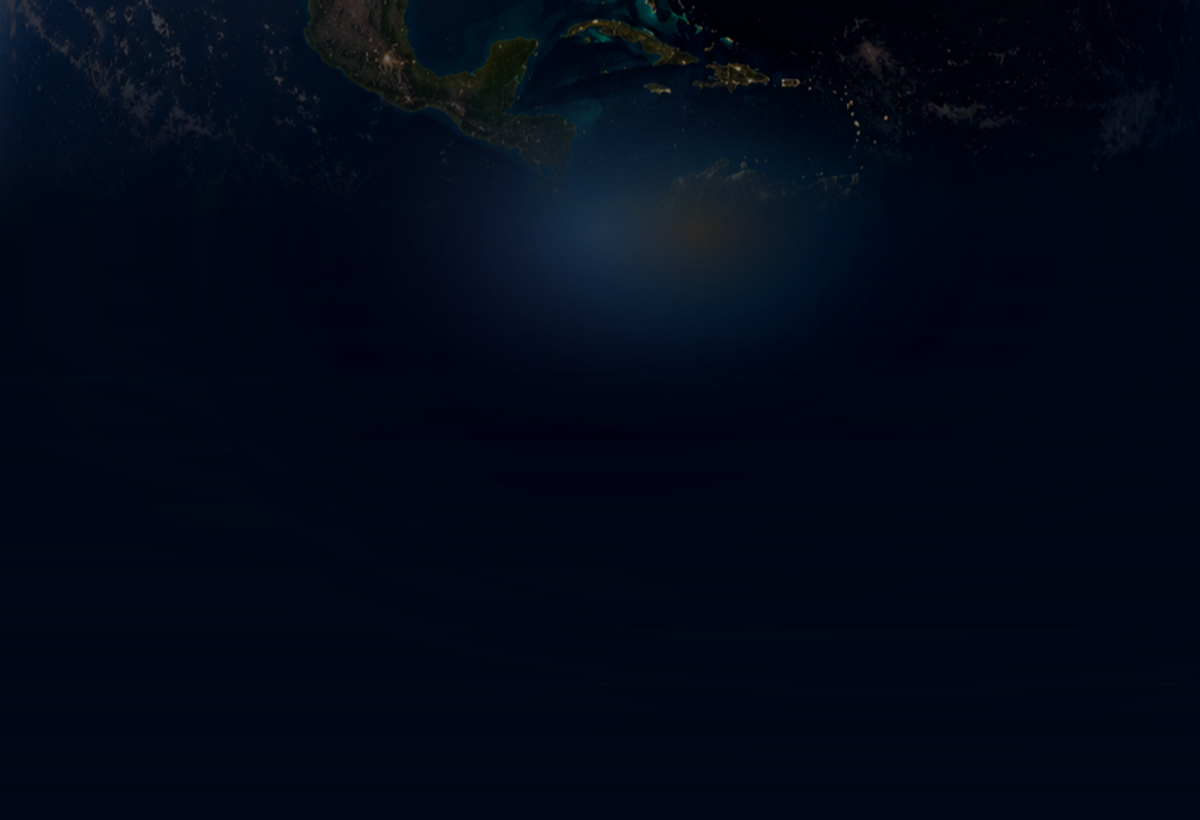
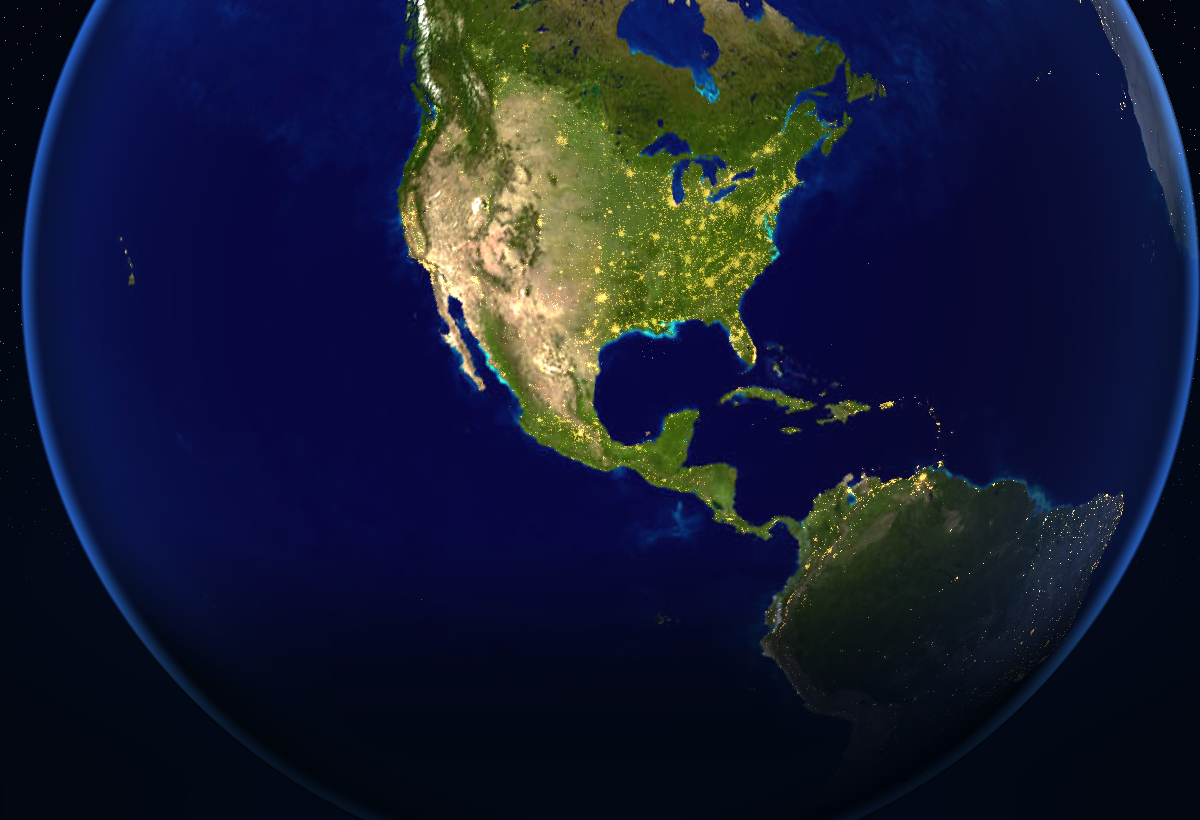
Refine mobile home globe hero

diff --git a/components/dashboard/photorealistic-3d-home-hero.tsx b/components/dashboard/photorealistic-3d-home-hero.tsx
@@ -43,8 +43,8 @@ const DEFAULT_COUNTRY: CountryFocus = {
   lat: 39.8283,
   lng: -98.5795,
   name: "United States",
-  pinX: 58,
-  pinY: 29
+  pinX: 56,
+  pinY: 39
 };
 
 const COUNTRY_BY_CODE: Record<string, CountryFocus> = {
@@ -246,12 +246,12 @@ export function Photorealistic3DHomeHero({ className }: Photorealistic3DHomeHero
       } as CSSProperties}
     >
       <div
-        className="absolute inset-0 overflow-hidden"
+        className="absolute inset-0 overflow-hidden opacity-0"
         data-testid="home-3d-map-stage"
         ref={mapHostRef}
       />
-      {heroMode !== "3d" ? <HomeHeroFallback reduceMotion={reduceMotion} /> : null}
-      <div className="absolute inset-0 bg-[radial-gradient(circle_at_var(--wayline-pin-x)_var(--wayline-pin-y),rgba(251,191,36,0.22),transparent_10%),linear-gradient(180deg,rgba(2,9,22,0.02),rgba(2,9,22,0.1)_42%,rgba(2,8,20,0.62)_76%,#020817_100%)]" />
+      <HomeHeroFallback reduceMotion={reduceMotion} />
+      <div className="absolute inset-0 z-10 bg-[radial-gradient(circle_at_var(--wayline-pin-x)_var(--wayline-pin-y),rgba(251,191,36,0.18),transparent_11%),linear-gradient(180deg,rgba(2,9,22,0.02),rgba(2,9,22,0.04)_38%,rgba(2,8,20,0.42)_76%,#020817_100%)]" />
       {showPin && country ? (
         <div
           className="wayline-country-pin absolute z-20 -translate-x-1/2 -translate-y-full text-center"
@@ -273,8 +273,8 @@ export function Photorealistic3DHomeHero({ className }: Photorealistic3DHomeHero
           </div>
         </div>
       ) : null}
-      <div className="absolute inset-x-0 top-0 h-28 bg-[linear-gradient(180deg,rgba(2,9,22,0.72),transparent)]" />
-      <div className="absolute inset-x-0 bottom-0 h-[38%] bg-[linear-gradient(180deg,transparent,rgba(2,8,20,0.5)_46%,#020817_100%)]" />
+      <div className="absolute inset-x-0 top-0 z-10 h-20 bg-[linear-gradient(180deg,rgba(2,9,22,0.36),transparent)]" />
+      <div className="absolute inset-x-0 bottom-0 z-10 h-[34%] bg-[linear-gradient(180deg,transparent,rgba(2,8,20,0.42)_46%,#020817_100%)]" />
     </div>
   );
 }
@@ -282,14 +282,14 @@ export function Photorealistic3DHomeHero({ className }: Photorealistic3DHomeHero
 function HomeHeroFallback({ reduceMotion }: { reduceMotion: boolean }) {
   return (
     <div
-      className="absolute inset-0 overflow-hidden"
+      className="absolute inset-0 z-[1] overflow-hidden"
       data-earth-source="photorealistic-3d-fallback"
       data-testid="home-3d-fallback"
     >
       <Image
         alt=""
         className={[
-          "object-cover object-[50%_20%] opacity-100 brightness-[0.86] contrast-[1.1] saturate-[1.08]",
+          "object-cover object-center opacity-100 brightness-[0.84] contrast-[1.12] saturate-[1.06]",
           reduceMotion ? "" : "wayline-home-3d-fallback-intro"
         ]
           .filter(Boolean)
@@ -322,19 +322,19 @@ function getStartCamera(country: CountryFocus, reduceMotion: boolean) {
   }
 
   return {
-    center: `${country.lat - 7},${country.lng - 28},${country.altitude + 420000}`,
-    heading: "292",
-    range: "5200000",
-    tilt: "56"
+    center: `${country.lat + 7},${country.lng - 18},${country.altitude + 720000}`,
+    heading: "310",
+    range: "6500000",
+    tilt: "34"
   };
 }
 
 function getSettledCamera(country: CountryFocus) {
   return {
-    center: `${country.lat},${country.lng},${country.altitude}`,
-    heading: "330",
-    range: "2450000",
-    tilt: "67"
+    center: `${country.lat + 2},${country.lng - 8},${country.altitude + 520000}`,
+    heading: "318",
+    range: "4700000",
+    tilt: "38"
   };
 }
 